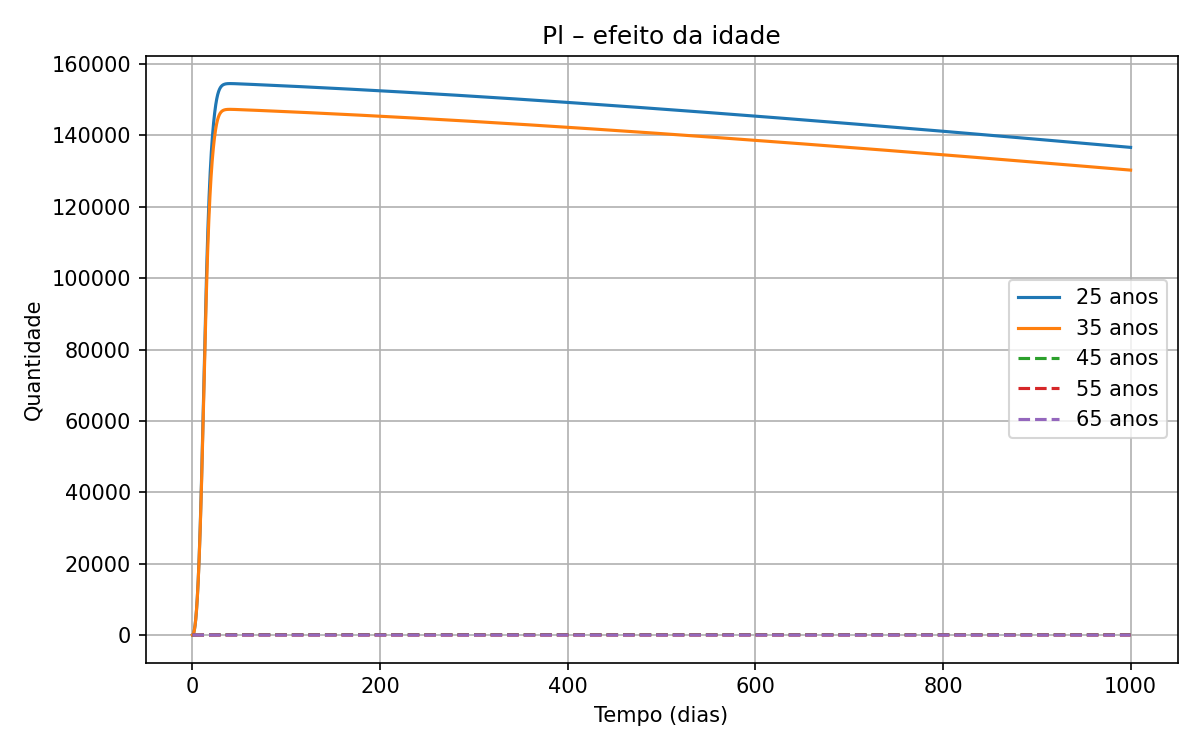
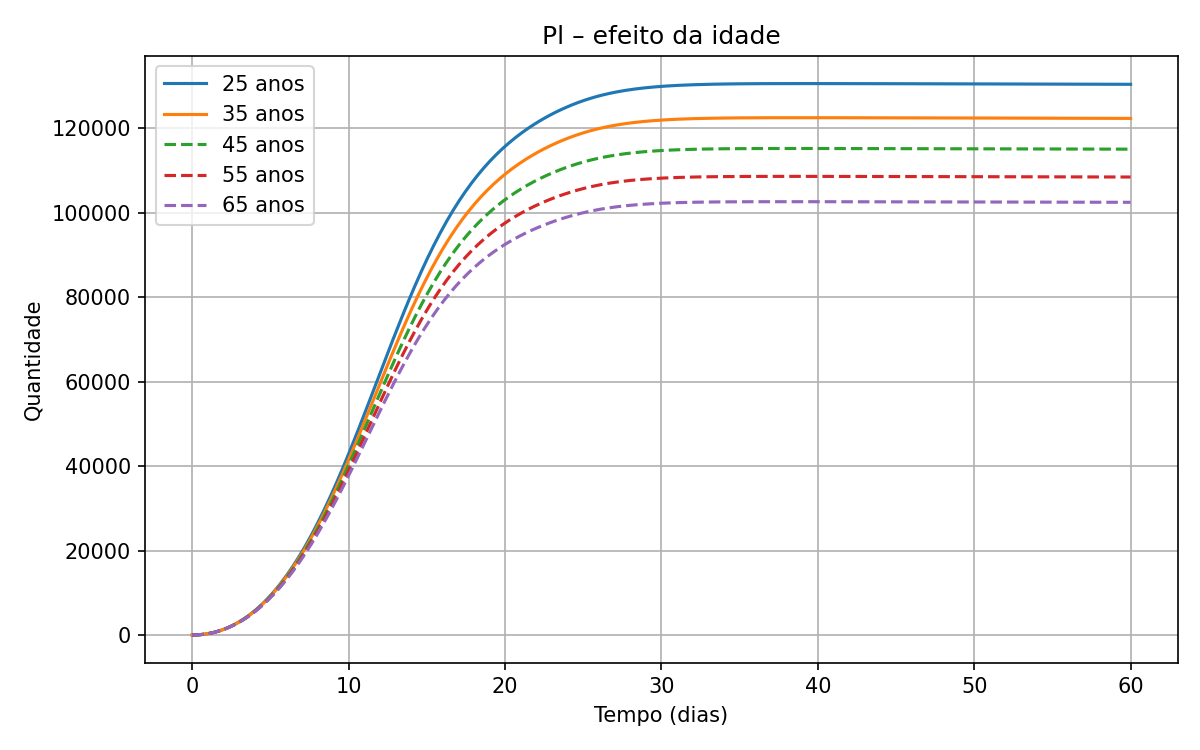
trying to simulate various ages

diff --git a/modelo_por_idade.py b/modelo_por_idade.py
@@ -11,11 +11,11 @@ os.makedirs(pasta_destino, exist_ok=True)
 
 idades = np.array([25, 35, 45, 55, 65])
 il6 = np.array([0.8, 1.0, 1.3, 1.7, 2.4])
-t = np.linspace(0, 1000, 30000)
+t = np.linspace(0, 60, 300)
 solucoes = {}
 
-def modelo_il6(idade, a, b):
-    return a * np.exp(b * idade)
+def modelo_il6(idade, a, b, c):
+    return a / ( 1 + np.exp(b * (idade - c)))
 
 il6_params, _ = curve_fit(modelo_il6, idades, il6)
 
@@ -23,10 +23,10 @@ idades_timo = np.array([25, 45, 65])
 t_cd4_naive = np.array([750, 350, 120])  # células/μL
 
 # Ajuste exponencial: Tprod_0 proporcional à célula naïve CD4+
-def modelo_tprod(idade, a, b):
-    return a * np.exp(-b * idade)
-
-tprod_params, _ = curve_fit(modelo_tprod, idades_timo, t_cd4_naive)
+def modelo_tprod(idade, a, b, c):
+    return a * np.exp(-b * idade) + c
+ 
+tprod_params, _ = curve_fit(modelo_tprod, idades_timo, t_cd4_naive, bounds =(0, np.inf))
 
 # Parâmetros do modelo
 params = {
@@ -70,6 +70,7 @@ params = {
     'δ_S': 0.01,
     'γ_I': 2.0,
     'η_S': 1e-4,
+    'σ_base' : 1.5e-3
 }
 
 labels = [
@@ -87,15 +88,20 @@ def gerar_condicoes_iniciais(idade):
         Tprod_0, I_0, S_0
     ]
 
-def immune_response_aging(y, t, p):
+def immune_response_aging(y, t, p, idade):
     V, Ap, Apm, Thn, The, Tkn, Tke, B, Ps, Pl, Bm, A, Tprod, I, S = y
 
-    dTprod = -p['μ_T'] * Tprod
+    # Efeitos de idade
+    μ_T_eff = p['μ_T'] * (1 + 0.02 * (idade - 20))  # Decaimento da produção tímica
+    δth_eff = p['δth'] * (1 + p['γ_I'] * I + 0.005 * idade)  # Morte de Th aumentada
+    σ_base = 0.002  # produção basal de células senescentes por idade
+
+    # Dinâmicas do sistema
+    dTprod = -μ_T_eff * Tprod
     dI = p['k_I'] - p['δ_I'] * I
-    dS = p['σ_B'] * B + p['σ_T'] * The - p['δ_S'] * S
+    dS = p['σ_B'] * B + p['σ_T'] * The + σ_base * idade - p['δ_S'] * S
 
     βpl_eff = p['βpl'] * np.exp(-p['η_S'] * S)
-    δth_eff = p['δth'] * (1 + p['γ_I'] * I)
 
     dV = p['πv']*V - p['cv1']*V/(p['cv2'] + V) - p['kv1']*V*A - p['kv2']*V*Tke
     dAp = p['αap']*(1e6 - Ap) - p['βap']*Ap*(p['cap1']*V)/(p['cap2'] + V)
@@ -112,13 +118,12 @@ def immune_response_aging(y, t, p):
     dA = p['πps']*Ps + p['πpl']*Pl - p['δa']*A
 
     return [dV, dAp, dApm, dThn, dThe, dTkn, dTke, dB, dPs, dPl, dBm, dA, dTprod, dI, dS]
-
 # Idades a simular
 
 
 for idade in idades:
     y0 = gerar_condicoes_iniciais(idade)
-    sol = odeint(immune_response_aging, y0, t, args=(params,))
+    sol = odeint(lambda y, t:immune_response_aging(y, t, params, idade), y0, t)
     solucoes[idade] = sol
 
 # Plotar comparações por idade
